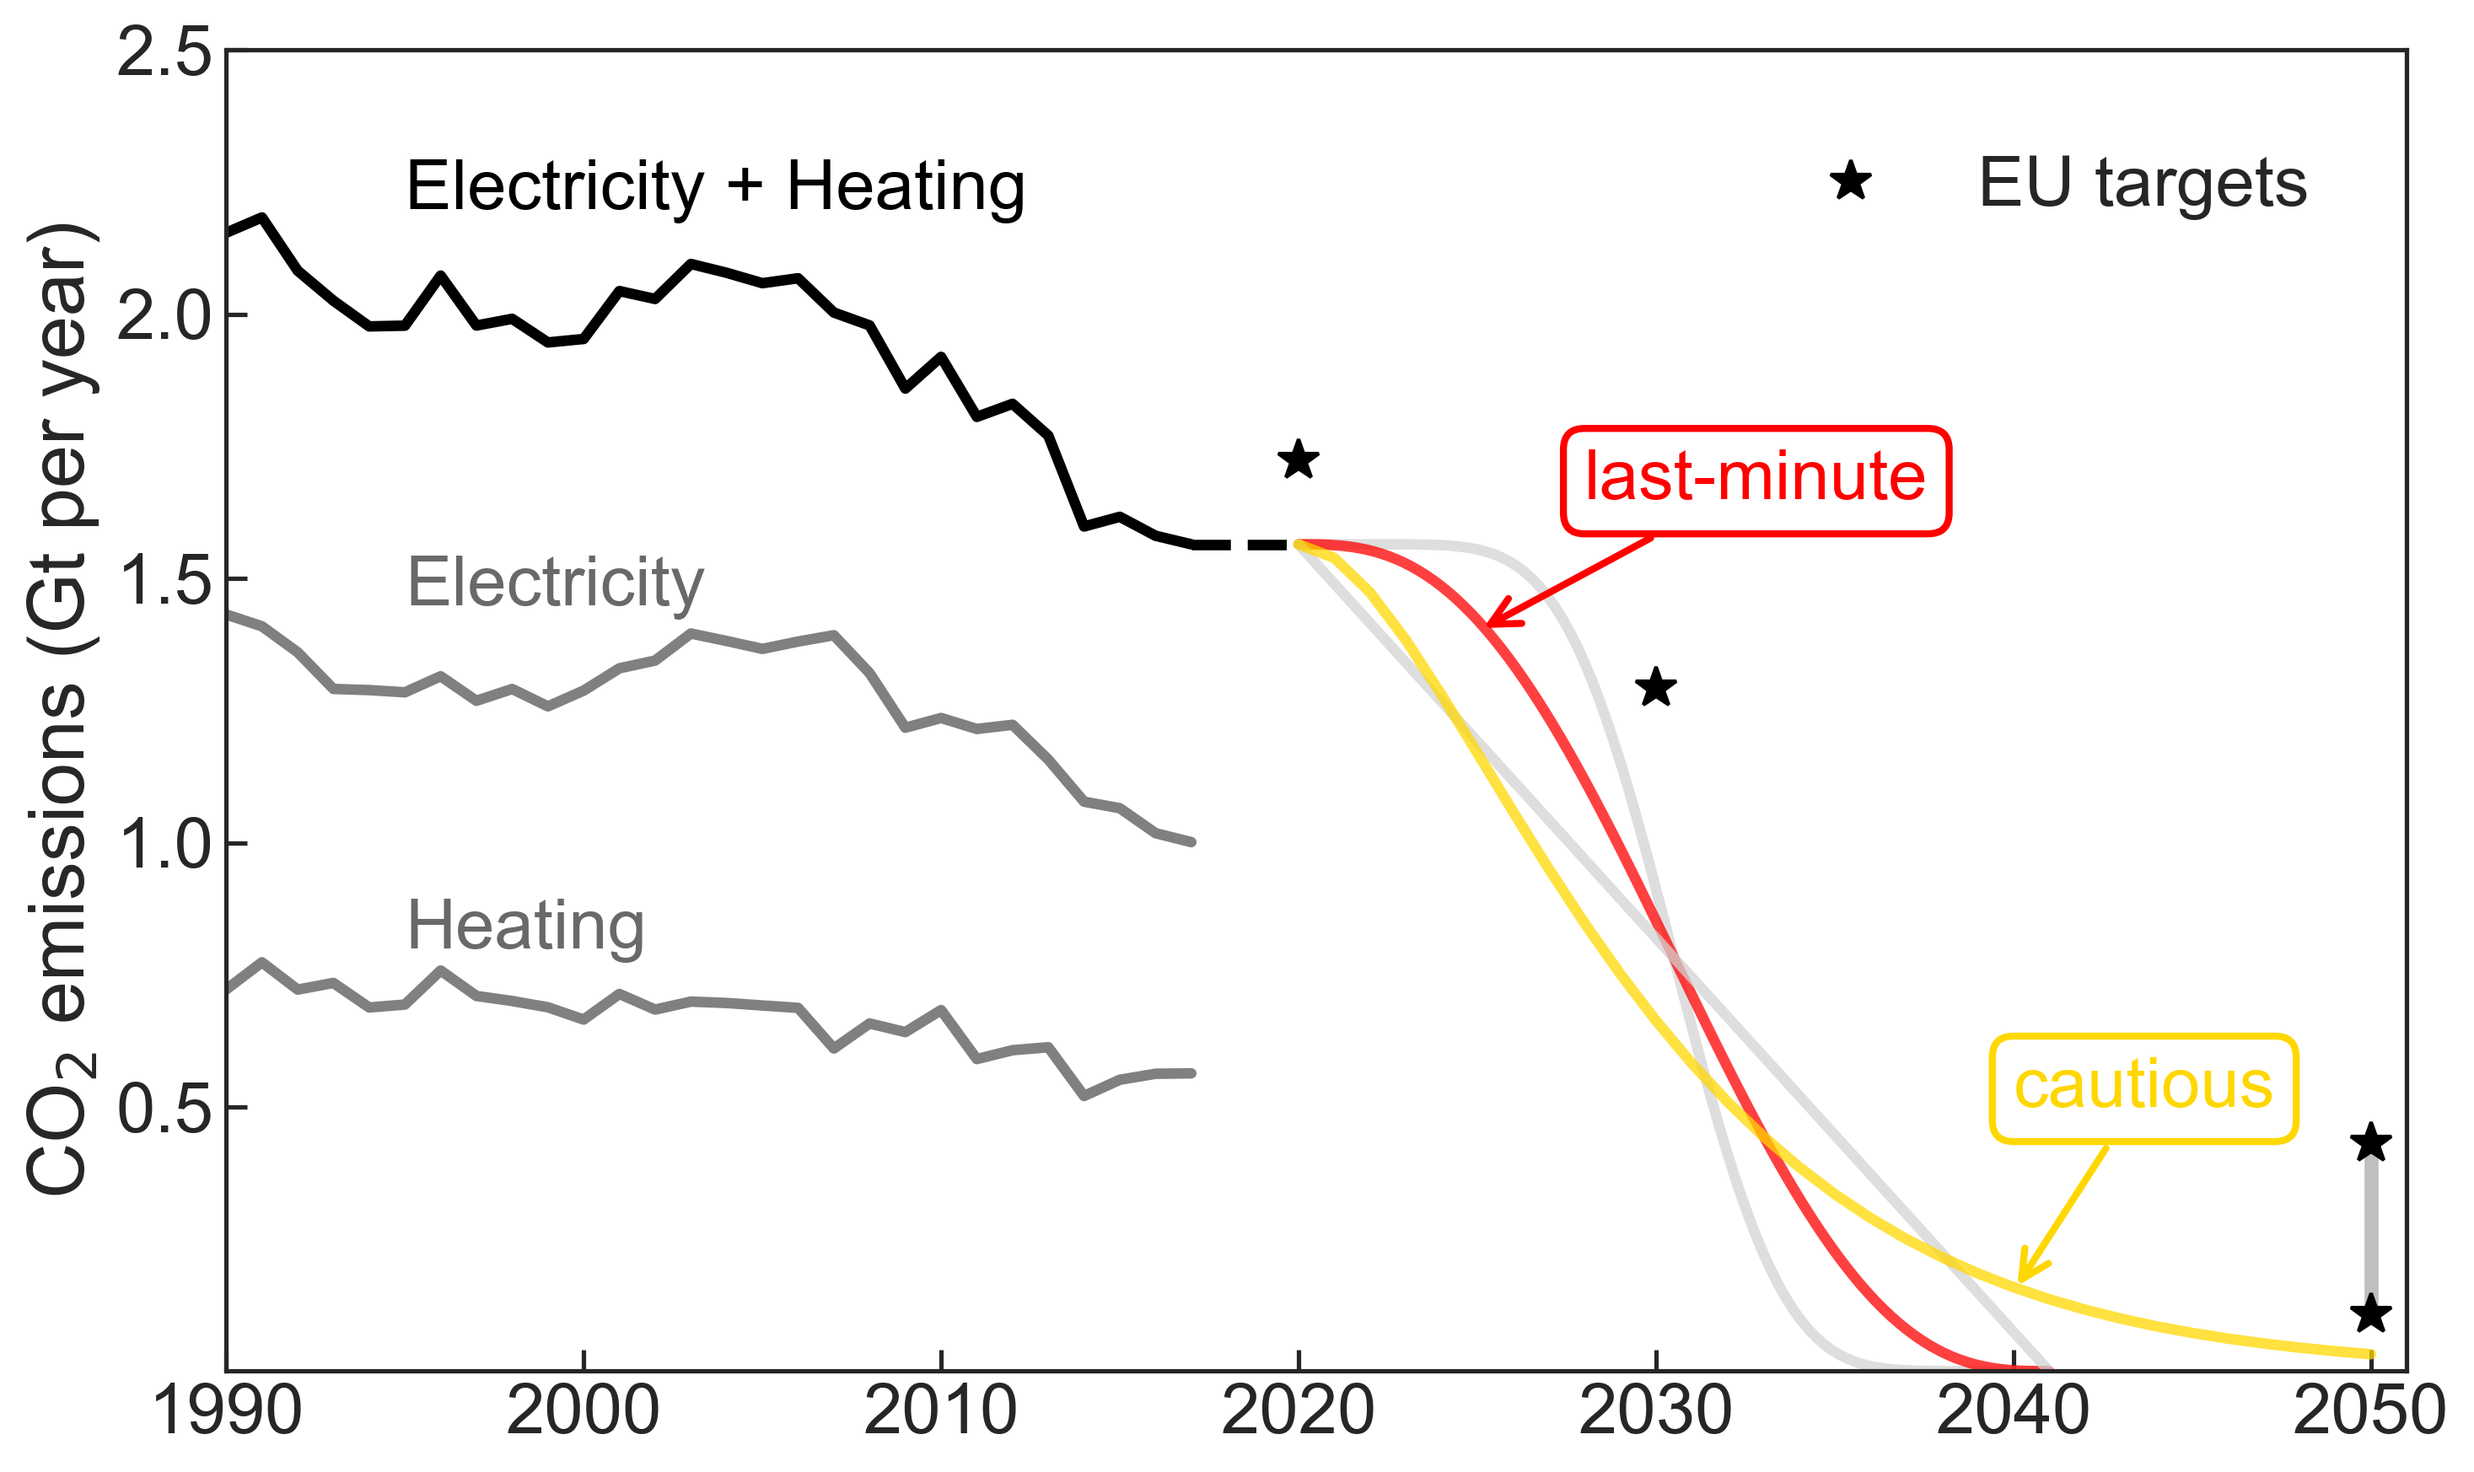
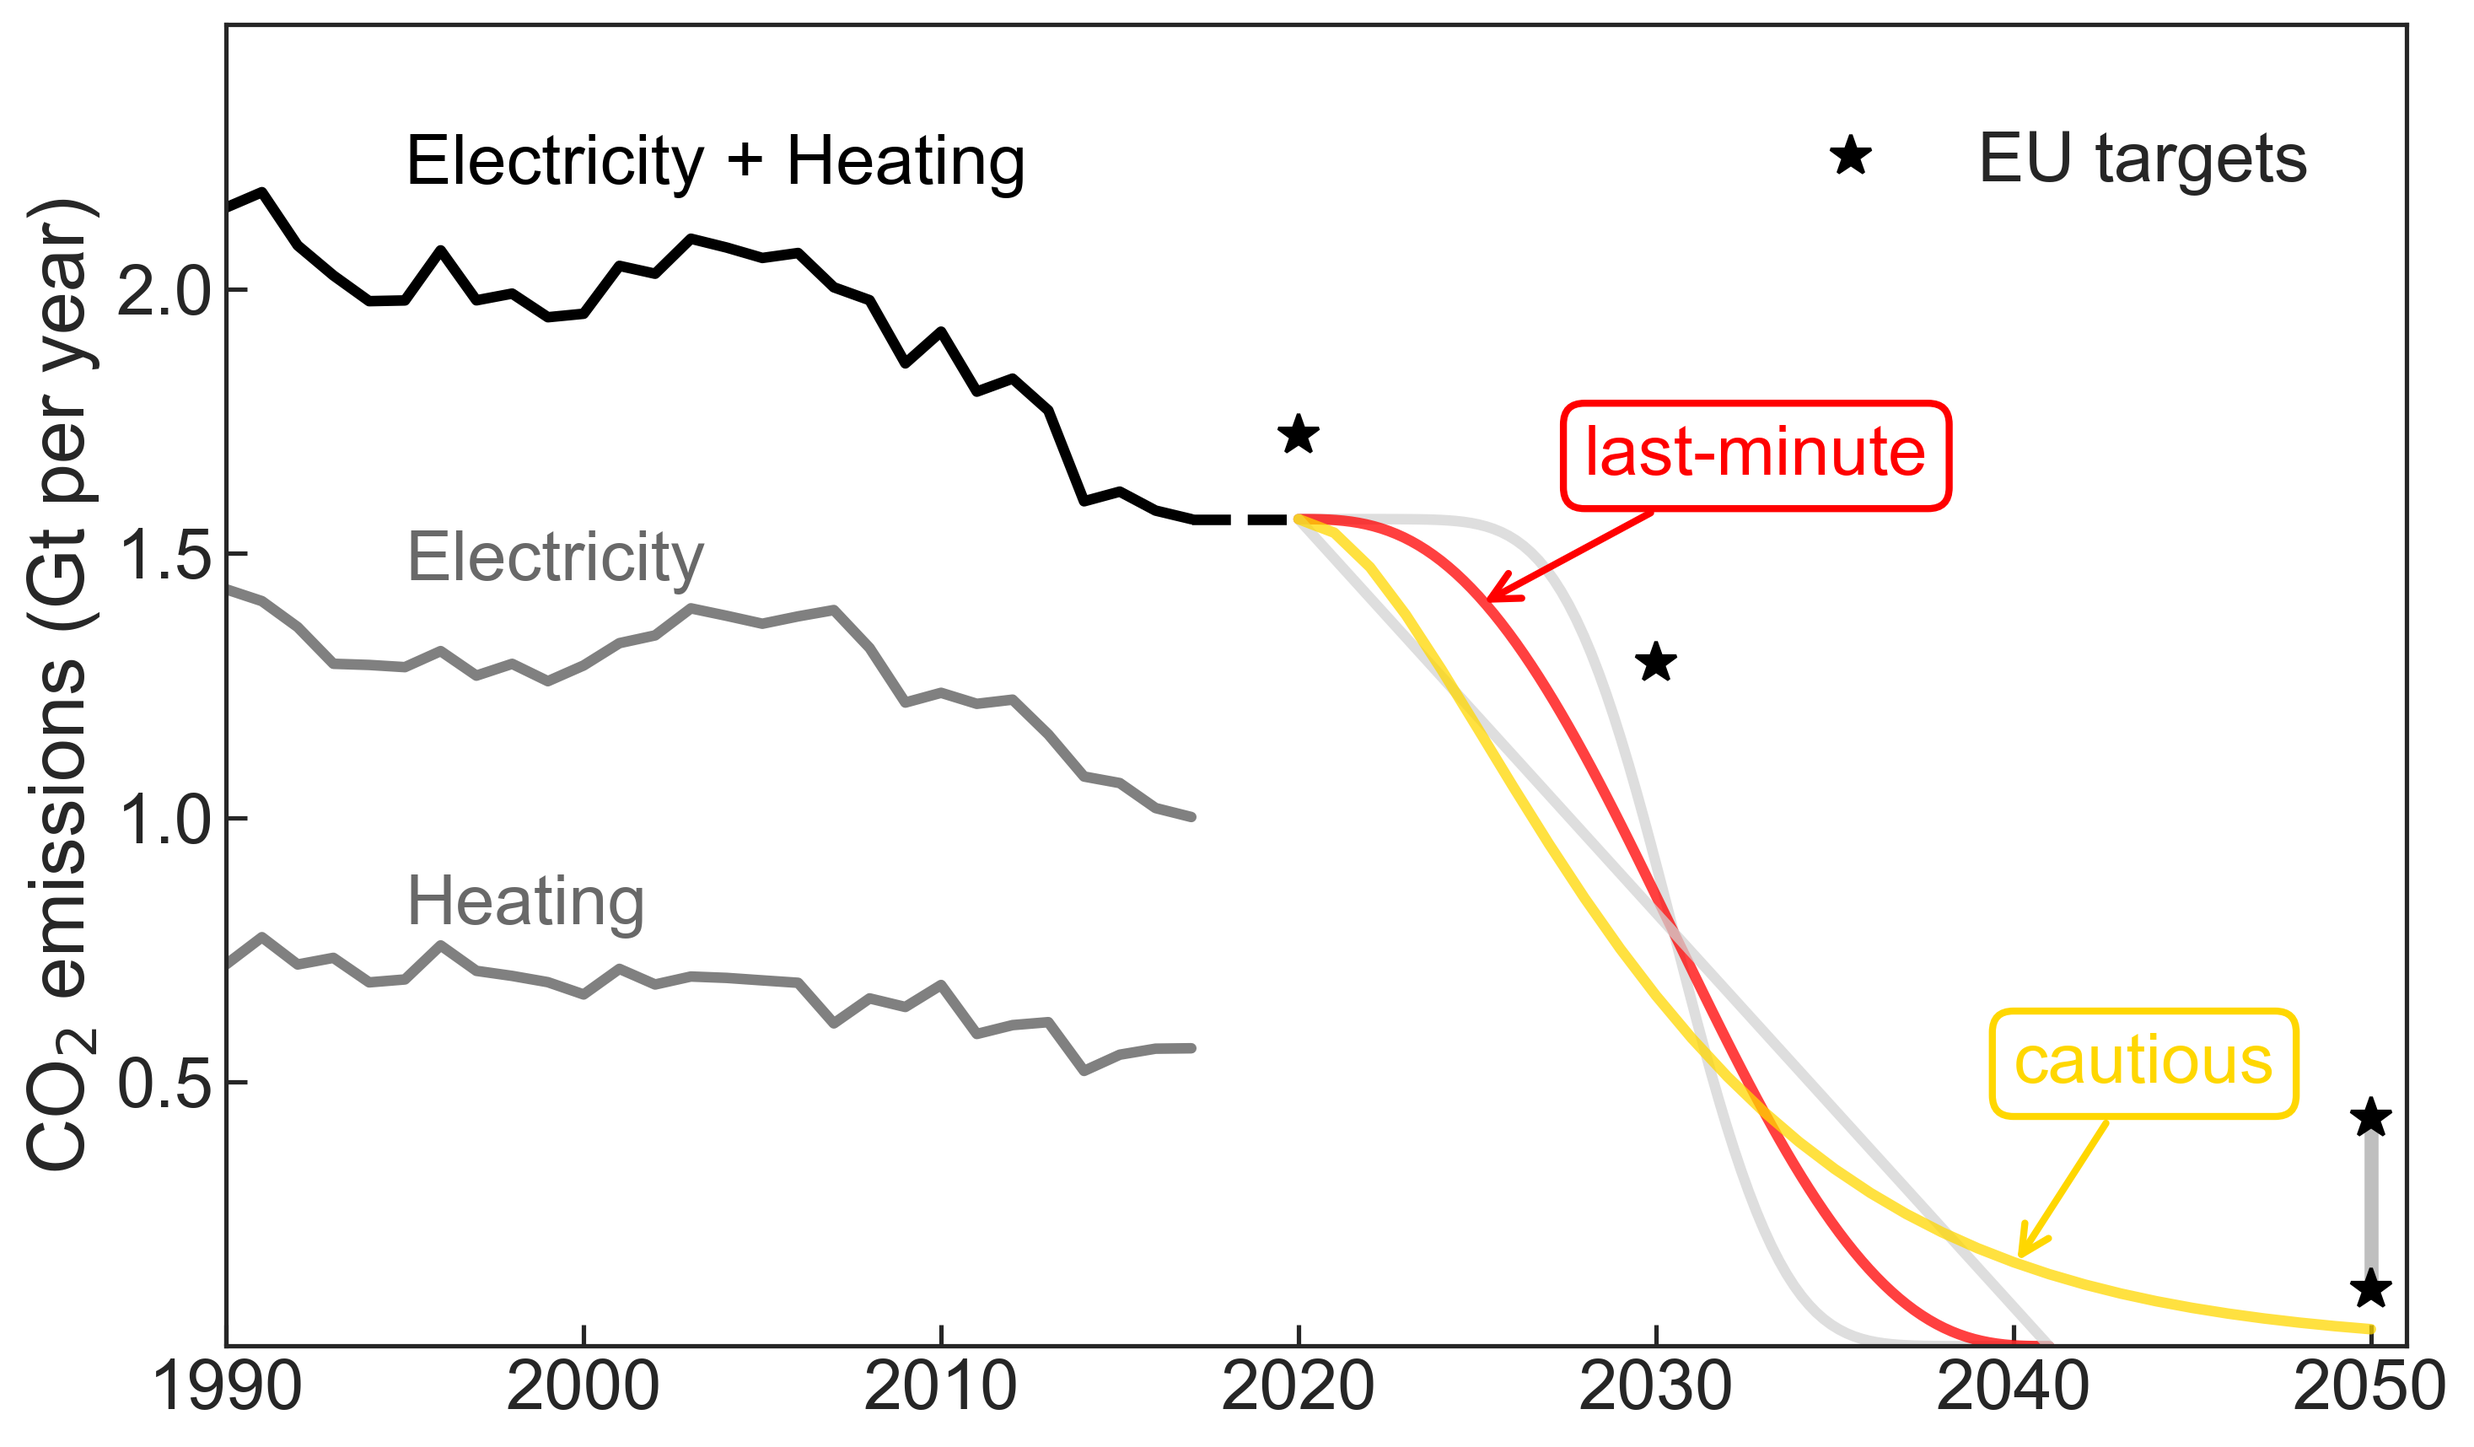
change order in historical emissions plot

diff --git a/paper_graphics/historical_sectorial_emissions.py b/paper_graphics/historical_sectorial_emissions.py
@@ -86,31 +86,37 @@ def plot_historical_sectoral_emissions():
 
 
     
-    ax1.stackplot(np.arange(1990,2018), [pd.to_numeric(emissions.loc['electricity']),
-                  pd.to_numeric(emissions.loc['residential non-elec'] + 
-                                        emissions.loc['services non-elec']),
-                  pd.to_numeric(emissions.loc['road non-elec']),
-                  pd.to_numeric(emissions.loc['rail non-elec']),
-                  pd.to_numeric(emissions.loc['domestic navigation']),
-                  pd.to_numeric(emissions.loc['domestic aviation']),
-                  pd.to_numeric(emissions.loc['international navigation']),
-                  pd.to_numeric(emissions.loc['international aviation']),
-                  pd.to_numeric(emissions.loc['industrial processes']),
-                  pd.to_numeric(emissions.loc['industry energy']),
-                  pd.to_numeric(emissions.loc['agriculture']),
-                  pd.to_numeric(emissions.loc['waste management']),
-                  pd.to_numeric(emissions.loc['energy (others)'])], 
- 
-                  colors=['firebrick', 'orange',  'dodgerblue', 'skyblue', 
+    ax1.stackplot(np.arange(1990,2018), 
+                  
+                  [pd.to_numeric(emissions.loc['road non-elec']),
+                      pd.to_numeric(emissions.loc['rail non-elec']),
+                      pd.to_numeric(emissions.loc['domestic navigation']),
+                      pd.to_numeric(emissions.loc['domestic aviation']),
+                      pd.to_numeric(emissions.loc['international navigation']),
+                      pd.to_numeric(emissions.loc['international aviation']),
+                      pd.to_numeric(emissions.loc['industrial processes']),
+                      pd.to_numeric(emissions.loc['industry energy']),
+                      pd.to_numeric(emissions.loc['agriculture']),
+                      pd.to_numeric(emissions.loc['waste management']),
+                      pd.to_numeric(emissions.loc['energy (others)']),
+                      pd.to_numeric(emissions.loc['residential non-elec'] + 
+                                    emissions.loc['services non-elec']),
+                      pd.to_numeric(emissions.loc['electricity']),],                   
+    
+                   colors=[ 'dodgerblue', 'skyblue', 
                               'midnightblue',  'lightcyan', 'pink', 'purple',
-                              'dimgray', 'lightgray', 'yellowgreen', 'peru', 'black'], 
+                              'dimgray', 'lightgray', 'yellowgreen', 'peru', 
+                              'black', 'orange', 'firebrick',],  
+ 
                   linewidth=0,
-                  labels=['electricity generation + CHP', 'heating in residential and services',
-                              'road transport', 'rail transport', 
+                  
+                  labels=[    'road transport', 'rail transport', 
                               'domestic navigation', 'domestic aviation',
                               'international navigation', 'international aviation',
                               'industry (process emissions)', 'industry (energy provision)', 
-                              'agriculture', 'waste', 'energy (others)'])    
+                              'agriculture', 'waste', 'energy (others)',
+                              'heating in residential and services',
+                              'electricity generation + central heat',])                 
 
     #the graph is slightly different to that shown in 
     #https://www.eea.europa.eu/data-and-maps/indicators/greenhouse-gas-emission-trends-6/assessment-2

diff --git a/Supplementary_transition.tex b/Supplementary_transition.tex
@@ -285,6 +285,9 @@ The maximum CO$_2$ allowed to be emitted by the system $\textrm{CAP}_{CO2}$ can 
 where $\varepsilon_{s}$ represents the specific emissions in CO$_2$-tonne-per-MWh\th{} of the fuel $s$, $\eta_{n,s}$ the efficiency and $g_{n,s,t}$ the generators dispatch. In this case, the Lagrange/KKT multiplier represents the shadow price of CO$_2$, \textit{i.e.}, the additional price that should be added for every unit of CO$_2$ to achieve the CO$_2$ reduction target in an open market. 
 
 \section{Sectors description and data}
+The interconnections links are assumed to be HDCV (justificar esto). For 2020 and 2030 their capacities corresponds to the values assumed in the ENTSOE Ten Years Network Development Plan (TYDP) \cite{}. The values for 2025 are interpolated assuming a liner capacity increment between 2025 and 2030. For years from 2035 onwards, capacities are optimized together with the rest of the system components using 2030 values as the lower \textcolor[rgb]{1,0,0}{boundary}. 
+
+
 
 \textcolor[rgb]{1,0,0}{TODO: 
 Add data references for electricity demand and annual heat demand, methodology description for modelling hourly heat demand. 

diff --git a/paper_graphics/carbon_budget.py b/paper_graphics/carbon_budget.py
@@ -34,8 +34,8 @@ def plot_carbon_budget():
     e['residential non-elec'] = '1.A.4.b - Residential'
     e['services non-elec'] = '1.A.4.a - Commercial/Institutional'
     e["total woL"] = "Total (without LULUCF, with indirect CO2)"
-
-    pol = "CO2" #["All greenhouse gases - (CO2 equivalent)","CO2"]
+    
+    pol = ["CO2"] # ["All greenhouse gases - (CO2 equivalent)"] 
 
     eu28 = ['FR', 'DE', 'GB', 'IT', 'ES', 'PL', 'SE', 'NL', 'BE', 'FI', 'CZ',
             'DK', 'PT', 'RO', 'AT', 'BG', 'EE', 'GR', 'LV',
@@ -159,7 +159,7 @@ def plot_carbon_budget():
                  bbox=dict(boxstyle="round", linewidth=2, 
                            fc='white', ec='gold')) 
                  
-    ax1.set_yticks(np.arange(0.5,3,0.5))
+    ax1.set_yticks(np.arange(0.5,2.5,0.5))
     ax1.plot([2020],[0.8*(emissions[1990]['electricity'] + 
                  emissions[1990]['residential non-elec'] + 
                  emissions[1990]['services non-elec'])],
